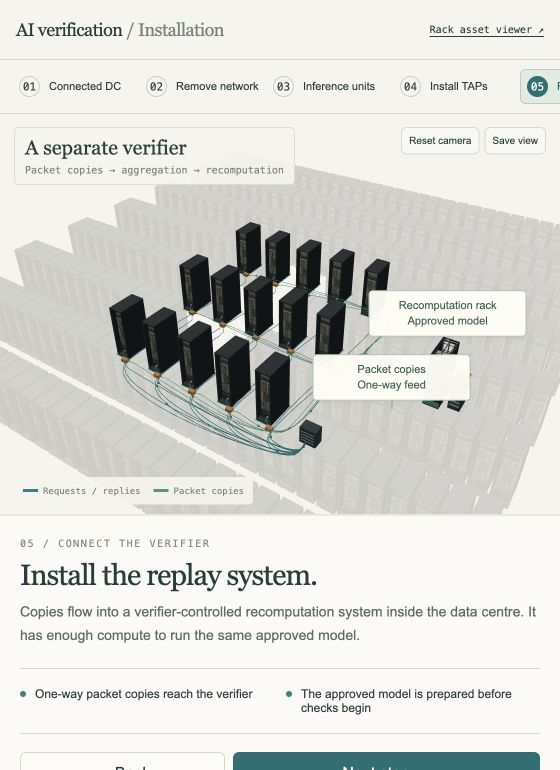
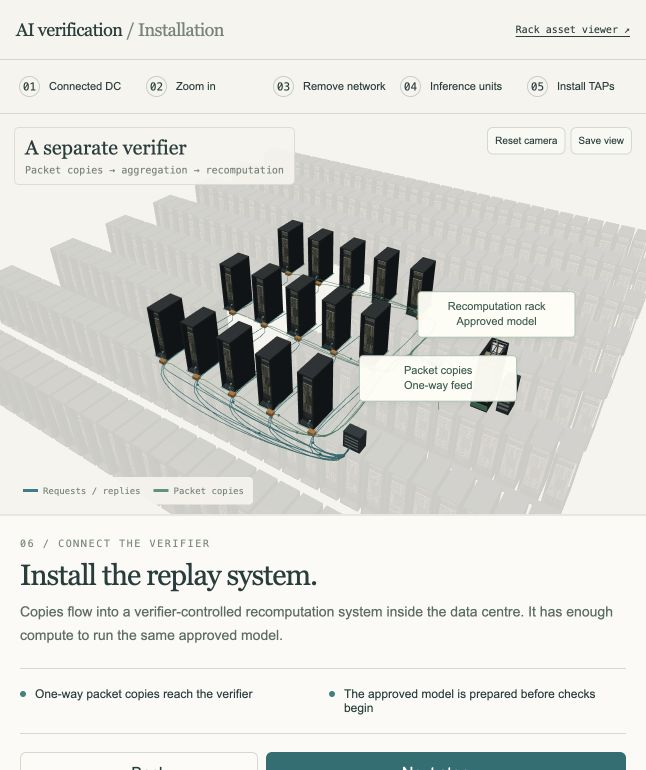
Separate zoom from network removal and preserve frontend through rack separation

diff --git a/src/install_viewer.js b/src/install_viewer.js
@@ -7,11 +7,12 @@ import {buildVerificationScene} from './verification_scene.js';
 const $=id=>document.getElementById(id),stage=$('stage'),V=THREE.Vector3;
 const chapters=[
  {short:'Connected DC',title:'A connected data centre.',eyebrow:'01 / THE STARTING POINT',description:'Today, racks share a dense, high-bandwidth network. The proposed installation changes what can communicate between inference units.',facts:['256 racks shown in context','Follow the installation on 15 of them'],count:'256 racks',subtitle:'A shared high-bandwidth fabric',caption:'Drag to orbit · scroll to zoom'},
- {short:'Remove network',title:'Remove the fast links.',eyebrow:'02 / LIMIT COMMUNICATION',description:'Remove the scale-out network and most of the frontend network. Keep the fast NVLink connections inside each rack.',facts:['High-bandwidth links between units removed','Internal NVLink stays in place'],count:'15 racks in focus',subtitle:'241 surrounding racks remain visible',caption:'This is a proposed installation, not a claim that removal alone prevents training.'},
- {short:'Inference units',title:'One rack. One inference unit.',eyebrow:'03 / DEFINE THE UNITS',description:'Each rack must be able to serve the approved model on its own. Give it one slow frontend link for requests and responses.',facts:['72 GPUs remain connected inside each rack','~1 Gb/s per unit is the proposal’s example'],count:'15 inference units',subtitle:'One NVL72 rack per unit · local NVLink retained',caption:'Spacing is enlarged for legibility. No storage relocation is shown.'},
- {short:'Install TAPs',title:'Observe every remaining link.',eyebrow:'04 / INSTALL NETWORK TAPS',description:'An active TAP sits on each slow link. It forwards the permitted traffic and makes an independent copy for the verification system.',facts:['One inline TAP per inference unit','The proposed active TAP also enforces the link rate'],count:'15 links · 15 TAPs',subtitle:'Requests and responses continue through the TAP',caption:'Orange devices are TAPs. They copy traffic without relying on the prover to forward it.'},
- {short:'Recompute system',title:'Install the replay system.',eyebrow:'05 / CONNECT THE VERIFIER',description:'Copies flow into a verifier-controlled recomputation system inside the data centre. It has enough compute to run the same approved model.',facts:['One-way packet copies reach the verifier','The approved model is prepared before checks begin'],count:'A separate verifier',subtitle:'Packet copies → aggregation → recomputation',caption:'The extra rack represents model-capable verifier compute plus supporting hardware.'},
- {short:'Sample check',title:'Replay. Compare. Report.',eyebrow:'06 / RUN A SAMPLE CHECK',description:'Select a request, replay it using the approved model, and compare the result. Only a restricted status is reported outside.',facts:['Recompute sampled requests, not all traffic','A sample result is not proof about the whole data centre'],count:'Check a sampled request',subtitle:'A visual explanation of recomputation',caption:'Illustrative outcomes only. Integrity, management and covert-channel controls remain essential.'}
+ {short:'Zoom in',title:'First, look inside the network.',eyebrow:'02 / ZOOM INTO THE CLUSTER',description:'Focus on 15 racks while their high-bandwidth connections are still in place. The rest of the data centre stays visible in the background.',facts:['All connections remain during the zoom','15 racks selected for the installation'],count:'15 connected racks',subtitle:'Zoom first · network still connected',caption:'The next step removes the fast links before the units move apart.'},
+ {short:'Remove network',title:'Remove the fast links.',eyebrow:'03 / LIMIT COMMUNICATION',description:'Remove the scale-out fabric and most of the frontend, then move the units apart. A single slow frontend link remains per unit for inference requests and replies.',facts:['Remove scale-out + most frontend links','Keep internal NVLink + one slow frontend per rack'],count:'15 racks in focus',subtitle:'Fast fabric removed · slow frontend retained',caption:'This is a proposed installation, not a claim that removal alone prevents training.'},
+ {short:'Inference units',title:'One rack. One inference unit.',eyebrow:'04 / DEFINE THE UNITS',description:'Each rack must be able to serve the approved model on its own. Its remaining slow frontend carries requests and responses.',facts:['72 GPUs remain connected inside each rack','~1 Gb/s per unit is the proposal’s example'],count:'15 inference units',subtitle:'One NVL72 rack per unit · local NVLink retained',caption:'Spacing is enlarged for legibility. No storage relocation is shown.'},
+ {short:'Install TAPs',title:'Observe every remaining link.',eyebrow:'05 / INSTALL NETWORK TAPS',description:'Insert an active TAP into each existing slow frontend link. It forwards the permitted traffic and makes an independent copy for the verification system.',facts:['One inline TAP per inference unit','The proposed active TAP also enforces the link rate'],count:'15 links · 15 TAPs',subtitle:'Requests and responses continue through the TAP',caption:'Orange devices are TAPs. They copy traffic without relying on the prover to forward it.'},
+ {short:'Recompute system',title:'Install the replay system.',eyebrow:'06 / CONNECT THE VERIFIER',description:'Copies flow into a verifier-controlled recomputation system inside the data centre. It has enough compute to run the same approved model.',facts:['One-way packet copies reach the verifier','The approved model is prepared before checks begin'],count:'A separate verifier',subtitle:'Packet copies → aggregation → recomputation',caption:'The extra rack represents model-capable verifier compute plus supporting hardware.'},
+ {short:'Sample check',title:'Replay. Compare. Report.',eyebrow:'07 / RUN A SAMPLE CHECK',description:'Select a request, replay it using the approved model, and compare the result. Only a restricted status is reported outside.',facts:['Recompute sampled requests, not all traffic','A sample result is not proof about the whole data centre'],count:'Check a sampled request',subtitle:'A visual explanation of recomputation',caption:'Illustrative outcomes only. Integrity, management and covert-channel controls remain essential.'}
 ];
 const scene=new THREE.Scene(),contextScene=new THREE.Scene(),camera=new THREE.PerspectiveCamera(37,1,.05,1200);camera.up.set(0,0,1);
 function lightScene(s){s.add(new THREE.HemisphereLight(0xffffff,0x586d67,2.2));const light=new THREE.DirectionalLight(0xffffff,2);light.position.set(-10,-20,40);s.add(light);}lightScene(scene);lightScene(contextScene);
@@ -36,19 +37,46 @@ function fill(mesh,ids){mesh.count=ids.length;ids.forEach((id,i)=>{matrix.makeTr
 function hardwareLOD(){const lists={far:[],medium:[],high:[]},background={far:[],medium:[],high:[]},ppm=stage.clientHeight/(2*Math.tan(camera.fov*Math.PI/360));const sorted=positions.map((p,id)=>({id,d:camera.position.distanceTo(p.clone().add(new V(0,0,1.1)))})).sort((a,b)=>a.d-b.d);for(const {id,d}of sorted){const px=2.236*ppm/Math.max(.5,d);if(current>0&&!focusSet.has(id)){background[px>32?'medium':'far'].push(id);continue;}lists[px>185&&lists.high.length<16?'high':px>32?'medium':'far'].push(id);}for(const level of ['far','medium','high']){fill(mainBatches[level],lists[level]);fill(contextBatches[level],background[level]);}diagnostic.main=lists.far.length+lists.medium.length+lists.high.length;diagnostic.context=background.far.length+background.medium.length;diagnostic.near=lists.high.length;dirty=false;lastLOD=performance.now();}
 function fade(group,value){group.visible=value>.001;group.traverse(o=>{if(!o.material)return;const ms=Array.isArray(o.material)?o.material:[o.material];for(const m of ms){m.userData.baseOpacity??=m.opacity;m.opacity=m.userData.baseOpacity*value;m.transparent=value<1||m.userData.baseOpacity<1;}});}
 function fit(points){const target=new V();points.forEach(p=>target.add(p));target.multiplyScalar(1/points.length);target.z=1.35;const dir=new V(.58,-.88,.7).normalize(),right=new V().crossVectors(new V(0,0,1),dir).normalize(),up=new V().crossVectors(dir,right).normalize(),tv=Math.tan(camera.fov*Math.PI/360);let distance=7;for(const p of points)for(const x of[-.5,1.4])for(const y of[-1.2,.7])for(const z of[0,3.4]){const q=p.clone().add(new V(x,y,z)).sub(target);distance=Math.max(distance,q.dot(dir)+Math.abs(q.dot(right))/(tv*camera.aspect)*1.12,q.dot(dir)+Math.abs(q.dot(up))/tv*1.18);}return{target,position:target.clone().addScaledVector(dir,distance)};}
-function desiredView(step){if(step===0)return fit(original);if(step===1)return fit(focusIds.map(id=>original[id]));return fit(installation.cameraPoints(step<3?4:step===3?5:step===4?6:8));}
-function updateUI(){const c=chapters[current];$('chapter').textContent=c.eyebrow;$('title').textContent=c.title;$('description').textContent=c.description;$('status-list').replaceChildren(...c.facts.map(text=>{const d=document.createElement('div');d.append(document.createElement('i'),document.createTextNode(text));return d;}));$('scene-count').textContent=c.count;$('scene-subtitle').textContent=c.subtitle;$('scene-caption').textContent=c.caption;$('check-panel').hidden=current!==5;$('previous').disabled=busy||current===0;$('next').disabled=busy;$('next').textContent=current===5?'Restart →':'Next step →';$('camera-home').disabled=busy;document.querySelectorAll('.step').forEach((button,i)=>{button.disabled=busy;button.setAttribute('aria-current',i===current?'step':'false');});const legend=current<2?[['#cfb149','High-bandwidth fabric']]:current<4?[['#237f85','Slow frontend'],...(current===3?[['#c37d3f','Inline TAP']]:[])]:[['#237f85','Requests / replies'],['#4d9479','Packet copies'],...(current===5?[['#c37d3f','Restricted result']]:[])];$('legend').innerHTML=legend.map(([color,text])=>`<span><i style="background:${color}"></i>${text}</span>`).join('');}
+function desiredView(step){if(step===0)return fit(original);if(step===1)return fit(focusIds.map(id=>original[id]));return fit(installation.cameraPoints(step<4?4:step===4?5:step===5?6:8));}
+function updateUI(){const c=chapters[current];$('chapter').textContent=c.eyebrow;$('title').textContent=c.title;$('description').textContent=c.description;$('status-list').replaceChildren(...c.facts.map(text=>{const d=document.createElement('div');d.append(document.createElement('i'),document.createTextNode(text));return d;}));$('scene-count').textContent=c.count;$('scene-subtitle').textContent=c.subtitle;$('scene-caption').textContent=c.caption;$('check-panel').hidden=current!==6;$('previous').disabled=busy||current===0;$('next').disabled=busy;$('next').textContent=current===6?'Restart →':'Next step →';$('camera-home').disabled=busy;document.querySelectorAll('.step').forEach((button,i)=>{button.disabled=busy;button.setAttribute('aria-current',i===current?'step':'false');});const legend=current<2?[['#cfb149','High-bandwidth fabric']]:current<5?[['#237f85','Slow frontend'],...(current===4?[['#c37d3f','Inline TAP']]:[])]:[['#237f85','Requests / replies'],['#4d9479','Packet copies'],...(current===6?[['#c37d3f','Restricted result']]:[])];$('legend').innerHTML=legend.map(([color,text])=>`<span><i style="background:${color}"></i>${text}</span>`).join('');}
 chapters.forEach((chapter,i)=>{const b=document.createElement('button');b.className='step';b.innerHTML=`<b>${String(i+1).padStart(2,'0')}</b>${chapter.short}`;b.onclick=()=>goTo(i);$('steps').append(b);});
 function cancelCheck(){check=null;checkPhase='idle';installation.setSampling(false);$('run-check').disabled=false;$('result').className='result';$('result').textContent='Ready to replay a sampled request.';$('observed-reply').textContent='—';$('recomputed-reply').textContent='—';$('sample-unit').textContent='Sample one inference unit';for(const id of ['observe','replay','compare'])$(id).classList.remove('active');}
-function goTo(index,instant=false){if(busy&&!instant)return;cancelCheck();current=index;if(window.innerWidth<=700)window.scrollTo({top:0,behavior:instant?'instant':'smooth'});busy=true;controls.enabled=false;const destination=desiredView(index),duration=instant||matchMedia('(prefers-reduced-motion:reduce)').matches?0:1600;const from=focusIds.map(id=>positions[id].clone()),to=focusIds.map((id,i)=>index>=2?separated[i].clone():original[id].clone());if(index>0){contextScene.add(fullBundles.group);focusBundles.group.visible=netOpacity>.001;}else{scene.add(fullBundles.group);focusBundles.group.visible=false;}installation.root.visible=false;installation.setPhase(index<3?4:index===3?5:index===4?6:8);transition={start:performance.now(),duration,from,to,fromP:camera.position.clone(),fromT:controls.target.clone(),toP:destination.position,toT:destination.target,fromNet:netOpacity,toNet:index===0?1:0,fromContext:contextOpacity,toContext:index===0?1:.18};updateUI();dirty=true;if(duration===0)tickTransition(performance.now());}
-function tickTransition(t){if(!transition)return;const tr=transition,u=tr.duration?Math.min(1,(t-tr.start)/tr.duration):1,e=u*u*(3-2*u);focusIds.forEach((id,i)=>positions[id].lerpVectors(tr.from[i],tr.to[i],e));camera.position.lerpVectors(tr.fromP,tr.toP,e);controls.target.lerpVectors(tr.fromT,tr.toT,e);contextOpacity=THREE.MathUtils.lerp(tr.fromContext,tr.toContext,e);netOpacity=THREE.MathUtils.lerp(tr.fromNet,tr.toNet,e);fade(fullBundles.group,netOpacity);fade(focusBundles.group,current>0?netOpacity:0);dirty=true;if(u===1){transition=null;busy=false;controls.enabled=true;installation.root.visible=current>=2;updateUI();}}
-$('next').onclick=()=>goTo(current===5?0:current+1);$('previous').onclick=()=>goTo(current-1);$('restart').onclick=()=>goTo(0,true);$('camera-home').onclick=()=>{const view=desiredView(current);camera.position.copy(view.position);controls.target.copy(view.target);controls.update();dirty=true;};
+const smooth=u=>{u=THREE.MathUtils.clamp(u,0,1);return u*u*(3-2*u);};
+function goTo(index,instant=false){
+ if(busy&&!instant)return;cancelCheck();const previous=current;current=index;
+ if(window.innerWidth<=700)window.scrollTo({top:0,behavior:instant?'instant':'smooth'});
+ busy=true;controls.enabled=false;
+ const strip=index===2&&previous<2,installTaps=index===4&&previous<4;
+ const destination=desiredView(index),duration=instant||matchMedia('(prefers-reduced-motion:reduce)').matches?0:strip?3200:1600;
+ const from=focusIds.map(id=>positions[id].clone()),to=focusIds.map((id,i)=>index>=2?separated[i].clone():original[id].clone());
+ if(index>0)contextScene.add(fullBundles.group);else scene.add(fullBundles.group);
+ installation.setPhase(index<4?4:index===4?5:index===5?6:8);
+ installation.root.visible=index>=2;
+ installation.setTapInstall(installTaps?0:1);
+ installation.setFrontendLayout(from);
+ transition={start:performance.now(),duration,from,to,strip,installTaps,fromP:camera.position.clone(),fromT:controls.target.clone(),toP:destination.position,toT:destination.target,fromNet:netOpacity,toNet:index<2?1:0,fromContext:contextOpacity,toContext:index===0?1:.18};
+ updateUI();dirty=true;if(duration===0)tickTransition(performance.now());
+}
+function tickTransition(t){
+ if(!transition)return;const tr=transition,u=tr.duration?Math.min(1,(t-tr.start)/tr.duration):1,e=smooth(u);
+ // Strip first; only then add one metre to both clear gaps. The retained links follow the racks.
+ const move=tr.strip?smooth((u-.42)/.58):e,network=tr.strip?smooth(u/.4):e;
+ focusIds.forEach((id,i)=>positions[id].lerpVectors(tr.from[i],tr.to[i],move));
+ if(current>=2)installation.setFrontendLayout(focusIds.map(id=>positions[id]));
+ installation.setTapInstall(tr.installTaps?e:1);
+ camera.position.lerpVectors(tr.fromP,tr.toP,move);controls.target.lerpVectors(tr.fromT,tr.toT,move);
+ contextOpacity=THREE.MathUtils.lerp(tr.fromContext,tr.toContext,e);netOpacity=THREE.MathUtils.lerp(tr.fromNet,tr.toNet,network);
+ fade(fullBundles.group,netOpacity);fade(focusBundles.group,current>0?netOpacity:0);dirty=true;
+ if(u===1){transition=null;busy=false;controls.enabled=true;installation.root.visible=current>=2;updateUI();}
+}
+
+$('next').onclick=()=>goTo(current===6?0:current+1);$('previous').onclick=()=>goTo(current-1);$('restart').onclick=()=>goTo(0,true);$('camera-home').onclick=()=>{const view=desiredView(current);camera.position.copy(view.position);controls.target.copy(view.target);controls.update();dirty=true;};
 for(const id of ['match','different'])$(id).onclick=()=>{scenario=id;cancelCheck();$('match').setAttribute('aria-pressed',id==='match');$('different').setAttribute('aria-pressed',id==='different');};
-$('run-check').onclick=()=>{if(current!==5)return;cancelCheck();const unit=Math.floor(Math.random()*15);check={start:performance.now(),unit,scenario};$('sample-unit').textContent='Sampled unit U'+String(unit+1).padStart(2,'0');$('run-check').disabled=true;installation.setSampling(true,unit,'copy');};
+$('run-check').onclick=()=>{if(current!==6)return;cancelCheck();const unit=Math.floor(Math.random()*15);check={start:performance.now(),unit,scenario};$('sample-unit').textContent='Sampled unit U'+String(unit+1).padStart(2,'0');$('run-check').disabled=true;installation.setSampling(true,unit,'copy');};
 function tickCheck(t){if(!check)return;const reduced=matchMedia('(prefers-reduced-motion:reduce)').matches,elapsed=reduced?5000:t-check.start,phase=elapsed<1200?'copy':elapsed<2900?'replay':elapsed<4200?'compare':'done';if(phase===checkPhase)return;checkPhase=phase;const reply=check.scenario==='match'?'“The meeting is on Tuesday.”':'“The meeting is on Friday.”';$('observe').classList.toggle('active',true);$('replay').classList.toggle('active',phase!=='copy');$('compare').classList.toggle('active',phase==='compare'||phase==='done');$('observed-reply').textContent=reply;if(phase==='copy')$('result').textContent='Copying a request and its observed reply…';if(phase==='replay'){$('result').textContent='The verifier replays the request with the approved model…';installation.setSampling(true,check.unit,'replay');}if(phase==='compare'){$('recomputed-reply').textContent='“The meeting is on Tuesday.”';$('result').textContent='Comparing the observed and recomputed responses…';}if(phase==='done'){const pass=check.scenario==='match';$('recomputed-reply').textContent='“The meeting is on Tuesday.”';$('result').className='result '+(pass?'pass':'fail');$('result').textContent=pass?'PASS · this sampled reply agrees.':'FAIL · this sampled reply differs. Investigate.';$('run-check').disabled=false;installation.setSampling(true,check.unit,pass?'pass':'fail');check=null;}}
 function updateAnnotations(){
  const available=installation.root.visible?installation.annotations():[];
- const desired=current===2?[['Remaining frontend','Slow frontend\nRequests and replies']]:current===3?[['Active FPGA TAPs','Inline TAPs\nForward + copy'],['Remaining frontend','Slow frontend']]:current===4?[['VERIFIER','Recomputation rack\nApproved model'],['Packet-copy aggregation','Packet copies\nOne-way feed']]:current===5?[['VERIFIER','Recomputation rack'],['External verifier','External verifier\nPASS / FAIL only']]:[];
+ const desired=(current===2||current===3)?[['Remaining frontend','Slow frontend\nRequests and replies']]:current===4?[['Active FPGA TAPs','Inline TAPs\nForward + copy'],['Remaining frontend','Slow frontend']]:current===5?[['VERIFIER','Recomputation rack\nApproved model'],['Packet-copy aggregation','Packet copies\nOne-way feed']]:current===6?[['VERIFIER','Recomputation rack'],['External verifier','External verifier\nPASS / FAIL only']]:[];
  const selected=desired.map(([prefix,text])=>{const a=available.find(a=>a.text.startsWith(prefix));return a?{...a,text}:null;}).filter(Boolean);
  while(annotationElements.length<selected.length){const div=document.createElement('div');div.className='annotation';$('annotations').append(div);annotationElements.push(div);}
  const placed=[];
@@ -66,4 +94,4 @@ $('save-view').onclick=()=>{
 $('close-export').onclick=()=>$('export-dialog').close();
 function resize(){const w=stage.clientWidth,h=stage.clientHeight;renderer.setSize(w,h);camera.aspect=w/h;camera.updateProjectionMatrix();dirty=true;}new ResizeObserver(resize).observe(stage);controls.addEventListener('change',()=>dirty=true);
 resize();goTo(0,true);hardwareLOD();$('loading').remove();
-function animate(t){requestAnimationFrame(animate);tickTransition(t);tickCheck(t);controls.update();installation.update(t);updateAnnotations();if(dirty&&t-lastLOD>65)hardwareLOD();draw();if(t-lastDiagnostics>700){stage.dataset.diagnostics=JSON.stringify({stage:current,busy,mainRacks:diagnostic.main,contextRacks:diagnostic.context,contextOpacity,networkOpacity:netOpacity,storageShown:false,installation:installation.diagnostics(),checkPhase,result:$('result').textContent,drawCalls:renderer.info.render.calls,triangles:renderer.info.render.triangles});lastDiagnostics=t;}}requestAnimationFrame(animate);
+function animate(t){requestAnimationFrame(animate);tickTransition(t);tickCheck(t);controls.update();installation.update(t);updateAnnotations();if(dirty&&t-lastLOD>65)hardwareLOD();draw();if(t-lastDiagnostics>700){stage.dataset.diagnostics=JSON.stringify({stage:current,busy,mainRacks:diagnostic.main,contextRacks:diagnostic.context,contextOpacity,networkOpacity:netOpacity,storageShown:false,rackGap:+(positions[focusIds[1]].x-positions[focusIds[0]].x-.6).toFixed(3),rowGap:+(positions[focusIds[5]].y-positions[focusIds[0]].y-1.2).toFixed(3),frontendVisible:installation.root.visible,installation:installation.diagnostics(),checkPhase,result:$('result').textContent,drawCalls:renderer.info.render.calls,triangles:renderer.info.render.triangles});lastDiagnostics=t;}}requestAnimationFrame(animate);

diff --git a/src/verification_scene.js b/src/verification_scene.js
@@ -13,18 +13,20 @@ export function buildVerificationScene(points,rackGeometry,rackMaterial,options=
  function label(g,text,p,width=2.4,color='#254542'){
   const canvas=document.createElement('canvas');canvas.width=768;canvas.height=160;const c=canvas.getContext('2d');c.fillStyle='#fbfaf5';c.fillRect(0,0,768,160);c.strokeStyle='#cbd5ce';c.lineWidth=3;c.strokeRect(2,2,764,156);c.fillStyle=color;c.textAlign='center';c.textBaseline='middle';const lines=text.split('\n');c.font='600 31px Arial';lines.forEach((line,i)=>c.fillText(line,384,80+(i-(lines.length-1)/2)*43));const texture=new THREE.CanvasTexture(canvas);texture.colorSpace=THREE.SRGBColorSpace;textures.add(texture);const m=new THREE.SpriteMaterial({map:texture,depthTest:false});materials.add(m);const sprite=new THREE.Sprite(m);sprite.position.copy(p);sprite.scale.set(width,width*160/768,1);sprite.renderOrder=20;g.add(sprite);labels.push({sprite,text});if(options.simple)sprite.visible=false;return sprite;
  }
- function cable(g,positions,m,r=.012,packet=false,reverse=false){const curve=new THREE.CatmullRomCurve3(positions.map(p=>p.clone()),false,'centripetal');mesh(g,new THREE.TubeGeometry(curve,36,r,6,false),m,new V());if(packet){const dot=mesh(g,new THREE.SphereGeometry(.043,8,6),m,new V());moving.push({dot,curve,offset:moving.length*.137,reverse});}return curve;}
+ function cable(g,positions,m,r=.012,packet=false,reverse=false){const curve=new THREE.CatmullRomCurve3(positions.map(p=>p.clone()),false,'centripetal');curve.tube=mesh(g,new THREE.TubeGeometry(curve,36,r,6,false),m,new V());curve.radius=r;if(packet){const dot=mesh(g,new THREE.SphereGeometry(.043,8,6),m,new V());moving.push({dot,curve,offset:moving.length*.137,reverse});}return curve;}
  function arrow(g,curve,t,m){const tip=curve.getPoint(t),dir=curve.getTangent(t);const o=mesh(g,new THREE.ConeGeometry(.048,.14,8),m,tip);o.quaternion.setFromUnitVectors(new V(0,1,0),dir);}
- const tapPoints=[];
+ const tapPoints=[],frontendRoutes=[];
+ function frontendPoints(p,i){const nic=p.clone().add(new V(.19,-.63,.4)),tap=p.clone().add(new V(.46,-.91,.25)),laneY=minY-1.05-i*.021;return{nic,before:[nic,nic.clone().add(new V(0,-.08,-.08)),tap],after:[tap,new V(tap.x+.16,tap.y-.13,.09),new V(tap.x+.2,laneY,.075),new V(edge.x-.3,laneY,.075),edge]};}
  points.forEach((p,i)=>{
   // Boundaries are unit markers, not a claim that added physical spacing blocks covert channels.
-  const corners=[[-.34,-.64],[.34,-.64],[.34,.64],[-.34,.64],[-.34,-.64]].map(([x,y])=>new V(p.x+x,p.y+y,.015));const geom=new THREE.BufferGeometry().setFromPoints(corners);geometries.add(geom);const lm=new THREE.LineBasicMaterial({color:0x268181});materials.add(lm);units.add(new THREE.Line(geom,lm));label(units,'U'+String(i+1).padStart(2,'0'),p.clone().add(new V(0,0,2.48)),.52);
+  const corners=[[-.34,-.64],[.34,-.64],[.34,.64],[-.34,.64],[-.34,-.64]].map(([x,y])=>new V(p.x+x,p.y+y,.015));const geom=new THREE.BufferGeometry().setFromPoints(corners);geometries.add(geom);const lm=new THREE.LineBasicMaterial({color:0x268181});materials.add(lm);const unitOutline=new THREE.Line(geom,lm);units.add(unitOutline);const unitLabel=label(units,'U'+String(i+1).padStart(2,'0'),p.clone().add(new V(0,0,2.48)),.52);
   box(storage,p.clone().add(new V(0,-.48,.24)),[.42,.23,.1],dark);for(let d=0;d<6;d++)box(storage,p.clone().add(new V(-.16+d*.064,-.603,.24)),[.05,.008,.064],silver);
   const nic=p.clone().add(new V(.19,-.63,.4)),tap=p.clone().add(new V(.46,-.91,.25));tapPoints.push(tap);
-  box(slow,nic,[.055,.06,.035],silver);
+  const nicMesh=box(slow,nic,[.055,.06,.035],silver);
   const before=cable(slow,[nic,nic.clone().add(new V(0,-.08,-.08)),tap],teal,.011,true);
   const laneY=minY-1.05-i*.021;
   const after=cable(slow,[tap,new V(tap.x+.16,tap.y-.13,.09),new V(tap.x+.2,laneY,.075),new V(edge.x-.3,laneY,.075),edge],teal,.011,true,i%2===0);
+  frontendRoutes.push({before,after,nicMesh,unitOutline,unitLabel,base:p.clone(),last:p.clone()});
   box(taps,tap,[.24,.17,.13],orange);for(const x of[-.065,.065])box(taps,tap.clone().add(new V(x,-.09,0)),[.038,.012,.03],dark);
   const monitor= tap.clone().add(new V(.125,0,0));
   const copy=cable(copies,[monitor,new V(monitor.x+.13,monitor.y,.32),new V(maxX+.85+i*.024,monitor.y,.32),new V(maxX+1.1+i*.024,cy+.35,.32),aggregator],green,.009,true);arrow(copies,copy,.9,green);
@@ -50,8 +52,12 @@ export function buildVerificationScene(points,rackGeometry,rackMaterial,options=
  label(reporting,'DATA CENTRE BOUNDARY',new V(maxX+6.1,maxY+1.3,.4),2.4,'#946035');
  [points[0],points.at(-1),verifier].forEach(p=>{const at=p.clone().add(new V(-.6,-.75,.35));box(monitoring,at,[.16,.16,.2],orange);mesh(monitoring,new THREE.CylinderGeometry(.018,.018,.38,6),silver,at.clone().add(new V(0,0,.2))).rotation.x=Math.PI/2;for(const r of[.2,.32,.44]){const geo=new THREE.RingGeometry(r,r+.009,40);mesh(monitoring,geo,new THREE.MeshBasicMaterial({color:0xc37d3f,side:THREE.DoubleSide}),at.clone().add(new V(0,0,-.24)));}});
  label(monitoring,'Also monitor undeclared channels\nPower · EM / RF · acoustic · management',new V((minX+maxX)/2,maxY+1.1,2.8),4,'#946035');
+ function setFrontendLayout(locations){
+  locations.forEach((p,i)=>{const routes=frontendRoutes[i];if(routes.last.distanceToSquared(p)<1e-12)return;routes.last.copy(p);routes.unitOutline.position.copy(p).sub(routes.base);routes.unitLabel.position.copy(p).add(new V(0,0,2.48));const next=frontendPoints(p,i);routes.nicMesh.position.copy(next.nic);for(const key of ['before','after']){const curve=routes[key];curve.points=next[key].map(p=>p.clone());curve.updateArcLengths();const old=curve.tube.geometry;geometries.delete(old);old.dispose();const geometry=new THREE.TubeGeometry(curve,36,curve.radius,6,false);geometries.add(geometry);curve.tube.geometry=geometry;}});
+ }
+ function setTapInstall(progress){taps.position.z=(1-progress)*1.1;}
  function setPhase(n){phase=n;units.visible=n>=3;storage.visible=options.storage!==false&&n>=4;slow.visible=n>=4;taps.visible=n>=5;copies.visible=n>=6;verify.visible=n>=6;sampling.visible=n>=7;reporting.visible=n>=8;monitoring.visible=n>=9;}
  function update(t){if(!matchMedia('(prefers-reduced-motion:reduce)').matches)for(const p of moving)p.dot.position.copy(p.curve.getPoint((p.reverse?1:0)+(p.reverse?-1:1)*((t*.00013+p.offset)%1)));else for(const p of moving)p.dot.position.copy(p.curve.getPoint(.5));sampleRing.visible=phase>=7&&sampleActive;if(phase>=7&&sampleActive){const index=sampleIndex??Math.floor(t/2300)%points.length;sampleRing.position.copy(points[index]).add(new V(0,0,2.45));sampleRing.visible=true;}verifyMesh.material.emissive.set(checkState==='replay'?0x164936:checkState==='fail'?0x531f18:0x000000);verifyMesh.material.emissiveIntensity=checkState==='replay'?.6+.4*Math.sin(t*.005):.6;}
  function cameraPoints(n){return [...points,...(n>=4?[edge]:[]),...(n>=6?[verifier,verifier.clone().add(new V(1,0,0))]:[]),...(n>=8?[report]:[])];}
- setPhase(3);return{root,setPhase,update,cameraPoints,annotations(){return labels.filter(({sprite,text})=>{let p=sprite.parent;while(p){if(!p.visible)return false;p=p.parent;}return !/^U\d/.test(text);}).map(({sprite,text})=>({text,position:sprite.getWorldPosition(new V())}));},setSampling(active,index=null,state="idle"){sampleActive=active;sampleIndex=index;checkState=state;},diagnostics(){return{phase,units:points.length,slowLinks:phase>=4?points.length:0,taps:phase>=5?points.length:0,verifierUnits:phase>=6?1:0,copyDirection:'TAP to verifier only',reporting:phase>=8?'restricted schema':'hidden',outOfBandMonitoring:phase>=9};},dispose(){geometries.forEach(g=>g.dispose());materials.forEach(m=>m.dispose());textures.forEach(t=>t.dispose());}};
+ setPhase(3);return{root,setPhase,setFrontendLayout,setTapInstall,update,cameraPoints,annotations(){return labels.filter(({sprite,text})=>{let p=sprite.parent;while(p){if(!p.visible)return false;p=p.parent;}return !/^U\d/.test(text);}).map(({sprite,text})=>({text,position:sprite.getWorldPosition(new V())}));},setSampling(active,index=null,state="idle"){sampleActive=active;sampleIndex=index;checkState=state;},diagnostics(){return{phase,units:points.length,slowLinks:phase>=4?points.length:0,taps:phase>=5?points.length:0,verifierUnits:phase>=6?1:0,copyDirection:'TAP to verifier only',reporting:phase>=8?'restricted schema':'hidden',outOfBandMonitoring:phase>=9};},dispose(){geometries.forEach(g=>g.dispose());materials.forEach(m=>m.dispose());textures.forEach(t=>t.dispose());}};
 }

diff --git a/INSTALLATION_STORYBOARD.md b/INSTALLATION_STORYBOARD.md
@@ -7,13 +7,16 @@ Open `install.html` through the local server. It is separate from `fleet.html`, 
 | Screen | Visual action | Message |
 | --- | --- | --- |
 | 1. Connected DC | Show 256 solid racks and substantial shared cable bundles. | Start from a connected data centre. |
-| 2. Remove network | Zoom onto 15 racks; fade surrounding infrastructure to 18%; remove high-bandwidth cabling. | Remove scale-out and most frontend networking while retaining rack-local NVLink. |
-| 3. Inference units | Mark each rack as one unit; increase visual spacing; add a single slow frontend link per rack. | A unit serves an approved model without high-bandwidth communication to another unit. |
-| 4. Install TAPs | Insert an orange TAP into each of the 15 remaining links. | Forward traffic and independently copy it; the proposed active TAP enforces the example link rate. |
-| 5. Recompute system | Add green copy paths, an aggregator, and a verifier rack with supporting hardware. | The verifier inside the DC receives one-way copies and has enough compute for the approved model. |
-| 6. Sample check | Highlight a sampled unit; animate copy, replay and compare; demonstrate both PASS and FAIL. | Check a sampled reply and report a restricted outcome. |
+| 2. Zoom in | Focus on 15 racks with all high-bandwidth cabling still present; fade the surrounding DC to 18%. | Zoom before altering the network. |
+| 3. Remove network | Remove fast cabling first, then add one metre to rack and row gaps. Keep 15 slow frontend links visible and connected as racks move. | Remove scale-out and most frontend networking; retain rack-local NVLink and one slow frontend per unit. |
+| 4. Inference units | Hold the separated layout and show the surviving request/reply network. | One rack serves the approved model independently; the draft proposes a single slow NIC/link per unit. |
+| 5. Install TAPs | Lower an orange TAP into each existing frontend link; leave the frontend in place. | Forward traffic and independently copy it; the proposed active TAP enforces the example link rate. |
+| 6. Recompute system | Add green copy paths, an aggregator, and a verifier rack with supporting hardware. | The verifier inside the DC receives one-way copies and has enough compute for the approved model. |
+| 7. Sample check | Highlight a sampled unit; animate copy, replay and compare; demonstrate both PASS and FAIL. | Check a sampled reply and report a restricted outcome. |
 
 No storage is moved or added to the inference units in this walkthrough. The verifier’s extra support hardware is a schematic illustration, not a rack BOM. Existing cold-storage arrangements are assumed adequate for this visual explanation; the draft's storage question remains unresolved.
+
+The network selection follows the draft’s “Reduce high-bandwidth networking and segment the cluster” and “Install network TAPs” sections: remove the back-end scale-out fabric and most frontend links, replace the frontend NICs with one slow link per inference unit, retain internal NVLink, then TAP every surviving frontend link. The draft gives two management alternatives; this visual chooses telemetry over the monitored frontend and does not depict a separate air-gapped management fabric.
 
 ## Visual and scientific scope
 

diff --git a/README.md b/README.md
@@ -69,4 +69,4 @@ Layout controls are locked during the sequence. Reset restores the original layo
 
 ## Installation walkthrough
 
-Open **`install.html`** for the separate presentation interface. Six click-through screens explain the proposed installation: remove network → inference units → inline TAPs → verifier compute → an illustrative recomputation check. Both matching and differing replies can be demonstrated as sample PASS/FAIL outcomes. Storage relocation is deliberately omitted. Read `INSTALLATION_STORYBOARD.md` for the proposal assumptions and the distinction between this visual analogy and an actual recomputation algorithm.
+Open **`install.html`** for the separate presentation interface. Seven click-through screens explain the proposed installation: connected DC → zoom with cabling intact → remove fast links and separate racks → inference units → inline TAPs → verifier compute → an illustrative recomputation check. Both matching and differing replies can be demonstrated as sample PASS/FAIL outcomes. Storage relocation is deliberately omitted. Read `INSTALLATION_STORYBOARD.md` for the proposal assumptions and the distinction between this visual analogy and an actual recomputation algorithm.
